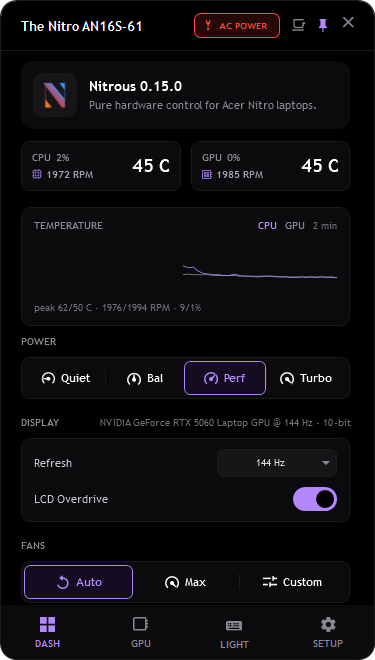
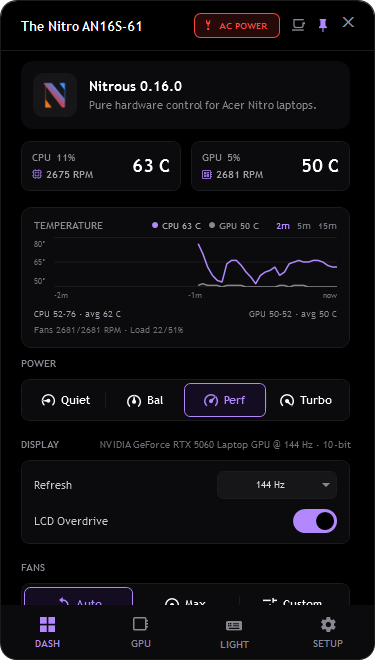
docs(site): 0.16.0 screenshots, fallbacks and alt text
Retakes the four page shots from 0.16.0: the labelled temperature graph, the rebuilt GPU telemetry and the Advanced Optimus note, the CPU limits card and the lighting page. Updates the no-JS version/date fallbacks and the dashboard/GPU alt text.

diff --git a/docs/index.html b/docs/index.html
@@ -82,7 +82,7 @@
           "downloadUrl": "https://github.com/jeremyaliparo/nitrous/releases/latest/download/Nitrous.exe",
           "applicationCategory": "UtilitiesApplication",
           "operatingSystem": "Windows 10, Windows 11",
-          "softwareVersion": "0.15.0",
+          "softwareVersion": "0.16.0",
           "license": "https://github.com/jeremyaliparo/nitrous/blob/master/LICENSE",
           "softwareHelp": "https://github.com/jeremyaliparo/nitrous#readme",
           "releaseNotes": "https://github.com/jeremyaliparo/nitrous/blob/master/CHANGELOG.md",
@@ -220,7 +220,7 @@
       <a class="brand" href="#top">
         <svg class="brand-mark" viewBox="0 0 64 64" aria-hidden="true"><path d="M8 8h12l24 34V8h12v48H44L20 22v34H8z" fill="url(#nitroGrad)"/></svg>
         <span class="brand-name">Nitrous</span>
-        <span class="brand-tag">v<span data-gh-version>0.15.0</span></span>
+        <span class="brand-tag">v<span data-gh-version>0.16.0</span></span>
       </a>
 
       <nav class="nav" id="primary-nav" aria-label="Primary">
@@ -281,7 +281,7 @@
           <div class="hero-cta reveal delay-3">
             <a class="btn btn-primary btn-lg" href="https://github.com/jeremyaliparo/nitrous/releases/latest/download/Nitrous.exe">
               <svg class="icon" aria-hidden="true"><use href="#i-windows"/></svg>
-              Download Nitrous <span class="btn-version" data-gh-version>0.15.0</span>
+              Download Nitrous <span class="btn-version" data-gh-version>0.16.0</span>
             </a>
             <a class="btn btn-ghost btn-lg" href="https://github.com/jeremyaliparo/nitrous" target="_blank" rel="noopener">
               <svg class="icon" aria-hidden="true"><use href="#i-github"/></svg>
@@ -594,7 +594,7 @@
             <div class="shot-panel" id="panel-dashboard" role="tabpanel" aria-labelledby="tab-dashboard">
               <figure class="shot">
                 <div class="app-frame app-frame-sm">
-                  <img src="assets/dashboard.png" width="375" height="660" alt="Nitrous dashboard: CPU and GPU usage, temperatures and fan speeds with a two-minute history graph, Performance power mode, refresh rate and Auto fans" loading="lazy" decoding="async">
+                  <img src="assets/dashboard.png" width="375" height="660" alt="Nitrous dashboard: CPU and GPU temperatures with a labelled temperature graph and min-max averages, fan speeds, Performance power mode, refresh rate and Auto fans" loading="lazy" decoding="async">
                 </div>
                 <figcaption>Dashboard · AN16S-61</figcaption>
               </figure>
@@ -602,7 +602,7 @@
             <div class="shot-panel" id="panel-gpu" role="tabpanel" aria-labelledby="tab-gpu" hidden>
               <figure class="shot">
                 <div class="app-frame app-frame-sm">
-                  <img src="assets/gpu.png" width="375" height="660" alt="Nitrous GPU tab: the RTX 5060 Laptop, its performance state, and core and memory clock offset sliders" loading="lazy" decoding="async">
+                  <img src="assets/gpu.png" width="375" height="660" alt="Nitrous GPU tab: core and memory clocks, a two-minute power chart against the enforced limit, load, VRAM and temperature meters, and the Advanced Optimus note" loading="lazy" decoding="async">
                 </div>
                 <figcaption>GPU · RTX 5060 Laptop</figcaption>
               </figure>
@@ -623,7 +623,7 @@
                 <figcaption>Setup · CPU power limits</figcaption>
               </figure>
             </div>
-            <p class="shot-hint"><span class="pulse-dot" aria-hidden="true"></span>Live app · v<span data-gh-version>0.15.0</span></p>
+            <p class="shot-hint"><span class="pulse-dot" aria-hidden="true"></span>Live app · v<span data-gh-version>0.16.0</span></p>
           </div>
         </div>
       </div>
@@ -819,8 +819,8 @@
               <span class="eyebrow">Latest release</span>
               <span class="release-badge">Stable</span>
             </div>
-            <p class="release-version">v<span data-gh-version>0.15.0</span></p>
-            <p class="release-date">Released <span data-gh-date>Nov 27, 2026</span></p>
+            <p class="release-version">v<span data-gh-version>0.16.0</span></p>
+            <p class="release-date">Released <span data-gh-date>Nov 28, 2026</span></p>
 
             <dl class="release-rows">
               <div><dt>Platform</dt><dd>Windows 10 / 11 x64</dd></div>
@@ -965,7 +965,7 @@
               <svg class="icon" aria-hidden="true"><use href="#i-external"/></svg>
             </a>
           </div>
-          <p class="cta-foot">v<span data-gh-version>0.15.0</span> · MIT · Windows 10/11 x64 · .NET 10 Desktop Runtime</p>
+          <p class="cta-foot">v<span data-gh-version>0.16.0</span> · MIT · Windows 10/11 x64 · .NET 10 Desktop Runtime</p>
         </div>
       </div>
     </section>
@@ -990,7 +990,7 @@
           </div>
           <p class="footer-status">
             <span class="pulse-dot" aria-hidden="true"></span>
-            Actively maintained · v<span data-gh-version>0.15.0</span> · <span data-gh-date>Nov 27, 2026</span>
+            Actively maintained · v<span data-gh-version>0.16.0</span> · <span data-gh-date>Nov 28, 2026</span>
           </p>
         </div>
 
@@ -1032,4 +1032,5 @@
   <script src="js/main.js" defer></script>
 </body>
 </html>
+
 
